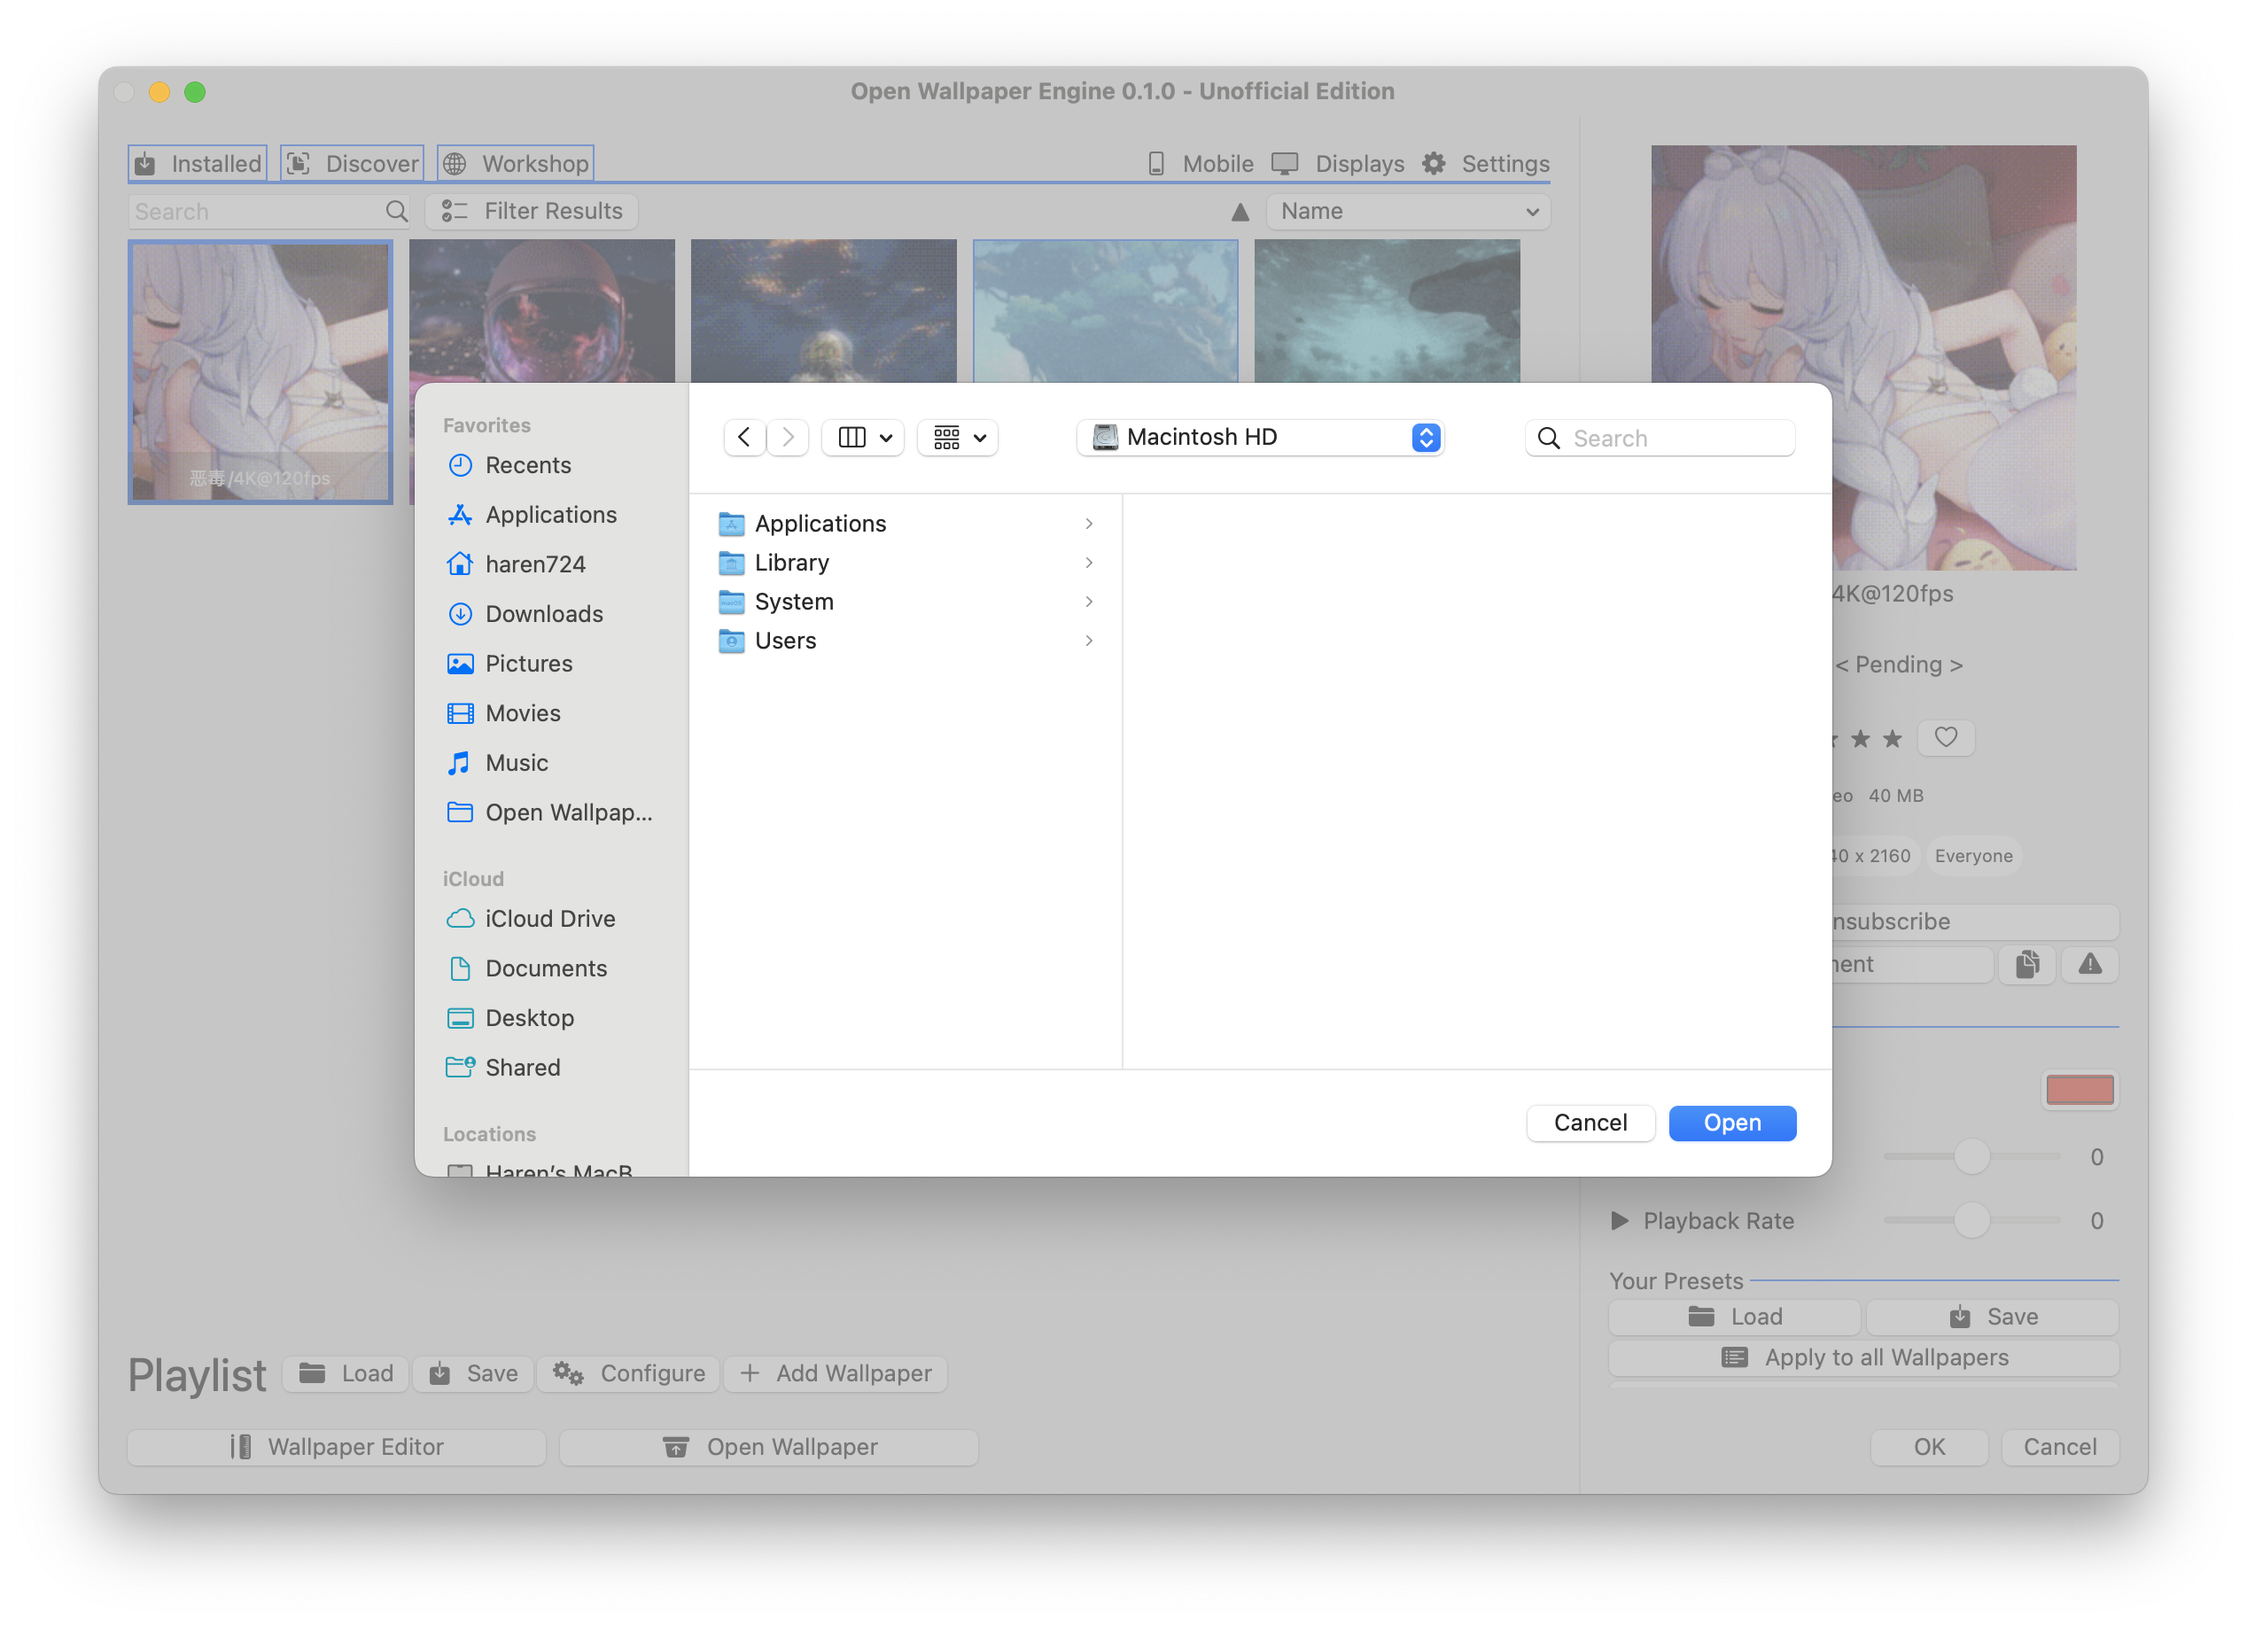
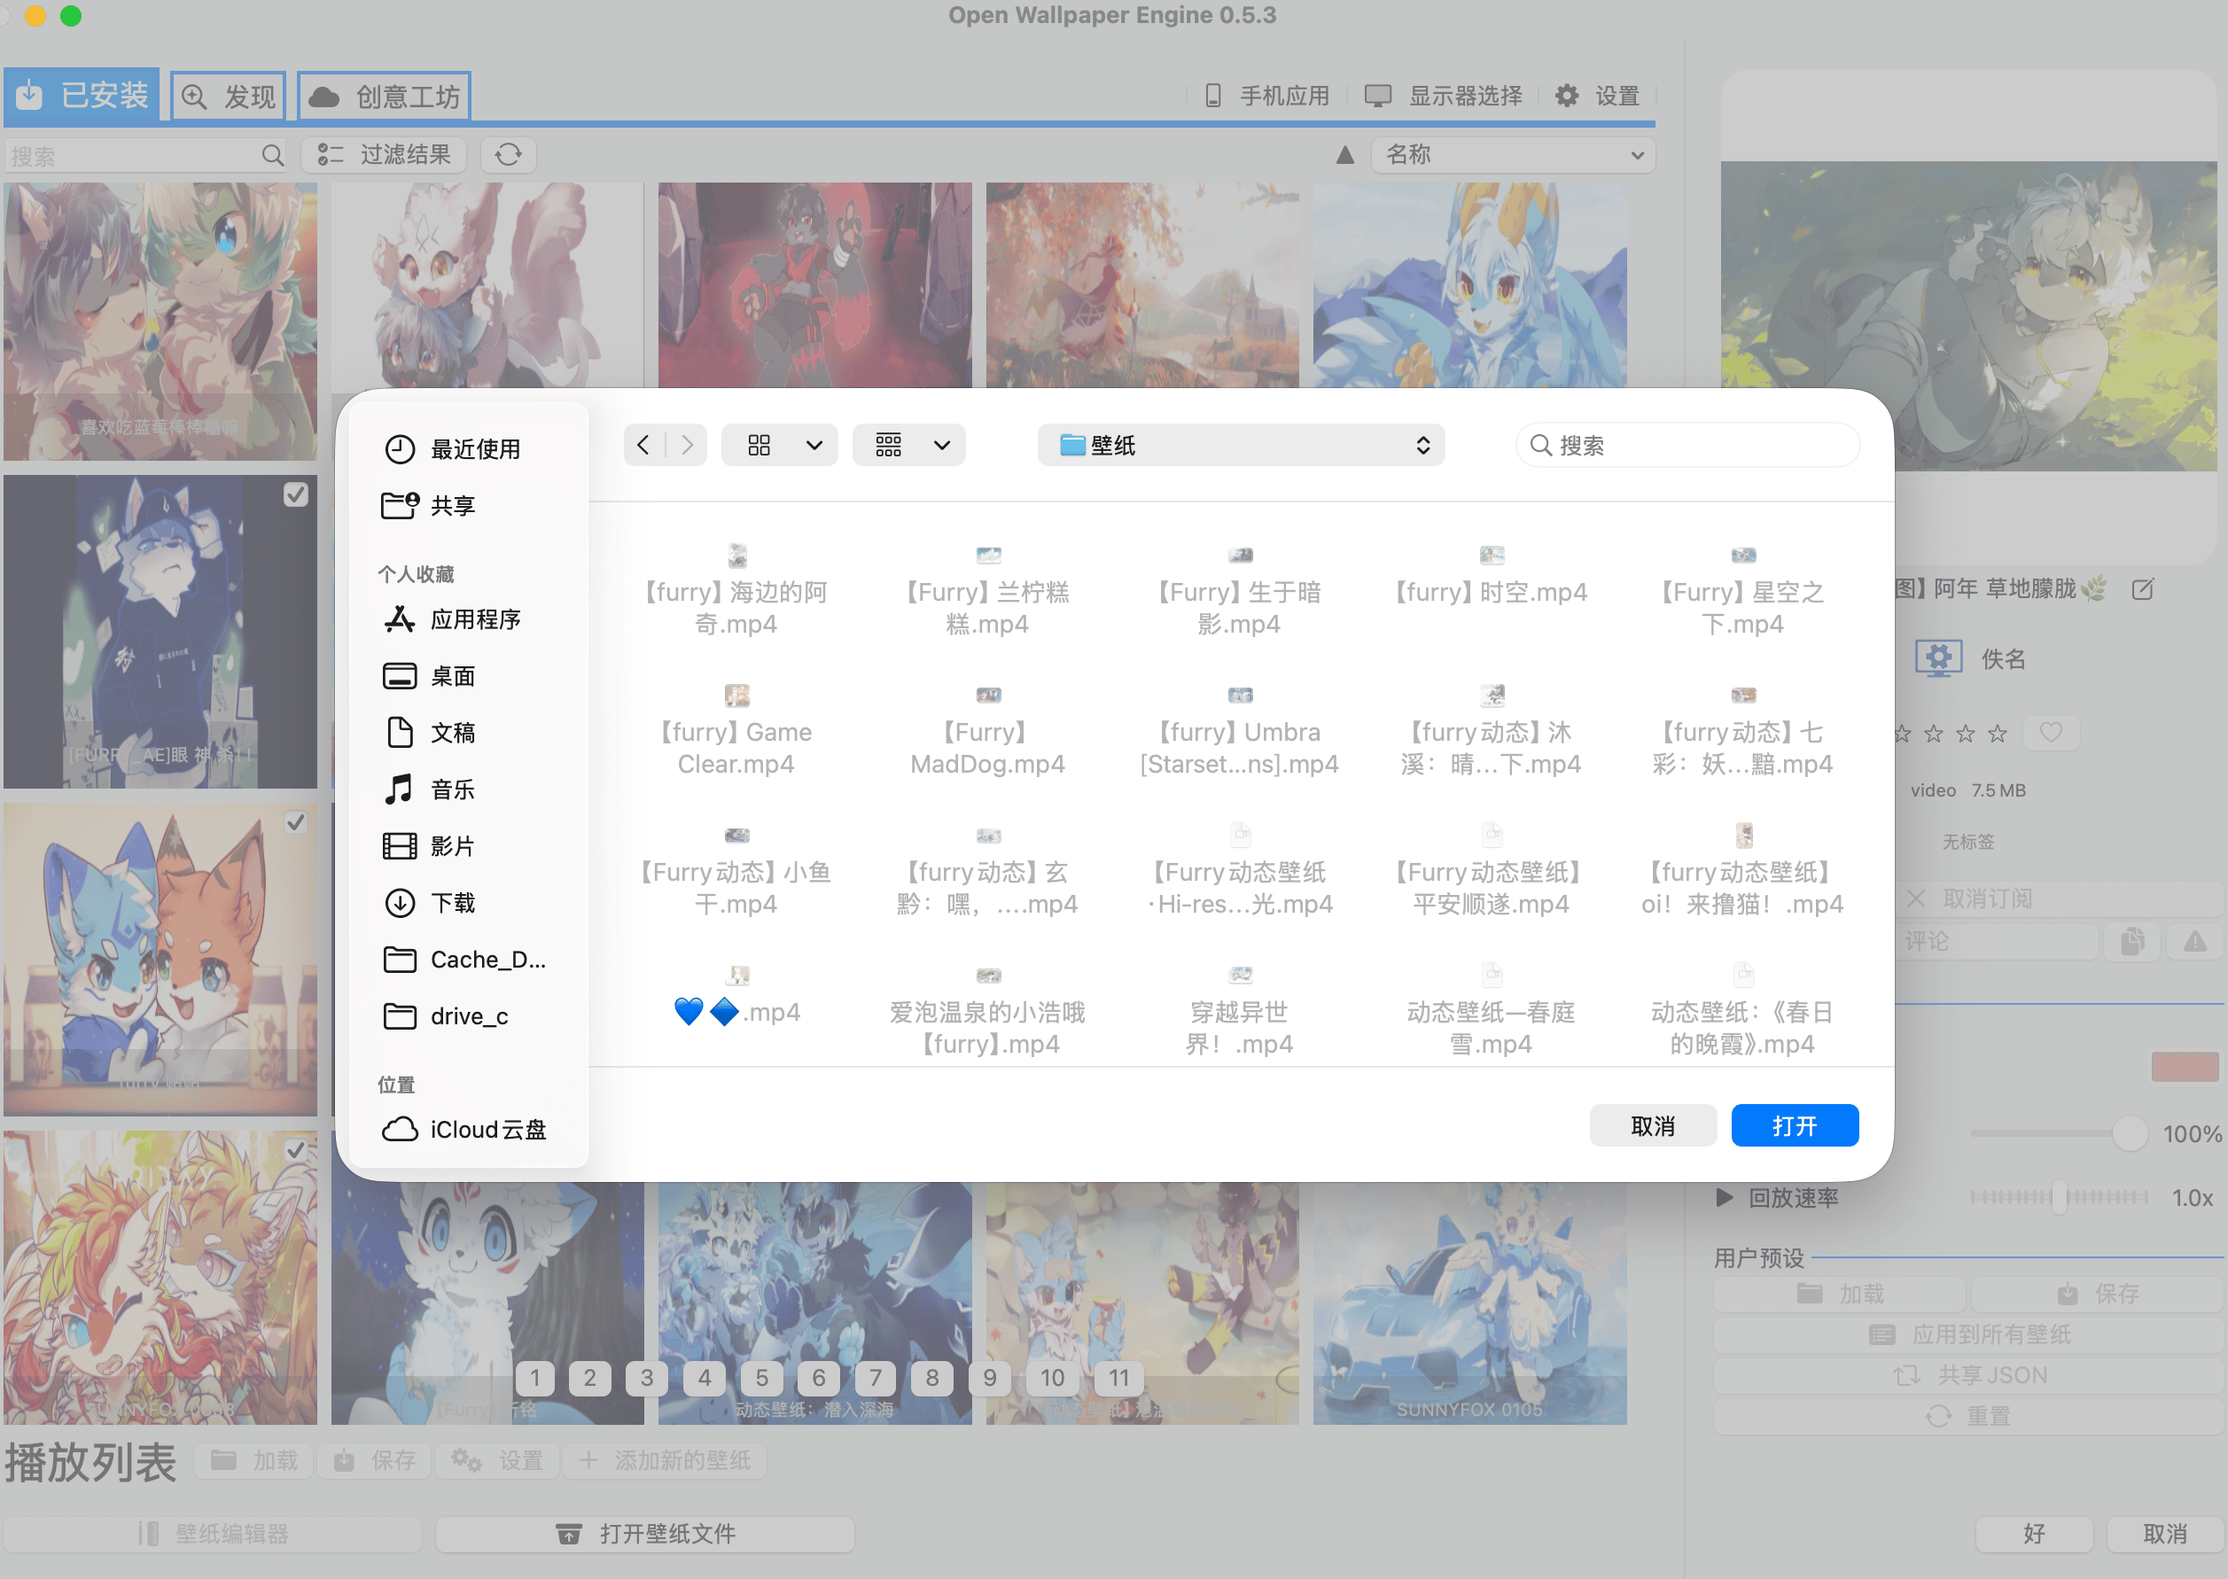
Add files via upload

diff --git a/README.md b/README.md
@@ -1,31 +1,13 @@
 Open Wallpaper Engine
 =========
 
-![GitHub release (latest by date)](https://img.shields.io/github/v/release/haren724/open-wallpaper-engine-mac)
+![GitHub release (latest by date)](https://img.shields.io/github/v/release/ERRORawa/open-wallpaper-engine-modified)
 
-An open source wallpaper engine for mac (which is not relative to the existing one on Steam)
+一个开源的mac版仿制Wallpaper Engine
 
-Menu
-=================
+=========
 
-<!--ts-->
-- [Open Wallpaper Engine](#open-wallpaper-engine)
-- [Menu](#menu)
-  - [Presentation](#presentation)
-    - [Wallpaper](#wallpaper)
-    - [UI](#ui)
-  - [Installation](#installation)
-  - [Usage](#usage)
-    - [Import from Wallpaper Engine (on Steam)](#import-from-wallpaper-engine-on-steam)
-      - [Notice](#notice)
-  - [Build](#build)
-    - [Prerequisite](#prerequisite)
-  - [Documentation](#documentation)
-<!--te-->
-
-## Presentation
-
-### Wallpaper
+### 壁纸
 
 ![](resources/wallpaper.png)
 
@@ -34,66 +16,35 @@ Menu
 ![](resources/wallpaper-with-windows.png)
 
 
-## Installation
-Download the .dmg file to local and drag the `.app` application file under `/Applications` folder
+## 安装方法
+下载`.zip`文件，解压后拖动`.app`到`/Applications`文件夹
 
-## Usage
-Hi there!
-I hosted a chat group on QQ: `228230228`  
-Guys If you are interested in contributing to this project, please 
-join this chat so that we could communicate much easier.
+## 用法
 
-大家好呀！ 
-我在QQ上建了个群：`228230228` 
-如果您有兴趣为这个项目做出贡献，不介意的话加一下呗，以便我们可以更方便地沟通。
+### 导入 Wallpaper Engine 文件
 
-### Import from Wallpaper Engine (on Steam)
-
-Check the File Menu
+点击文件菜单
 
 ![](resources/import-menu.png)
 
-Then select **Folder** of your wallpaper to be imported
+选择 Wallpaper Engine 中的壁纸文件，目前仅支持视频类型的壁纸
 
 ![](resources/import-panel.png)
 
-A normal wallpaper folder should like this (video wallpaper):
-- wallpaper_folder_name
-  - wallpaper_video_name.mp4
+正确的文件夹结构应该是这样的 (视频壁纸):
+- 壁纸文件夹
+  - 壁纸名.mp4
   - project.json
   - preview.gif
 
-#### Notice
-So far, only format from Wallpaper Engine is supported. That means you can't directly drag a `.mp4` file in and let it animate your desktop screen. We'll fix that soon.
+#### 导入本地 mp4 文件
 
+选择你的视频文件，可以同时选择多个文件导入
 
-## Build
-If you would like to make contribute to this project or for some other purposes, then you probably should at least build once. Here're the steps:
+将文件拖动到 Open Wallpaper Engine 主界面
 
-### Prerequisite
-- macOS >= 13.0
-- Xcode >= 14.4
-- Xcode Commandline Tools
+![](resources/drop-to-main.png)
 
------
-First, fork and clone your forked repo or just clone this repo directly if you don't plan to be a contributor. If you're in China, you'd better set up a HTTPS Proxy first to avoid failure due to bad connection or poor download speed.
-```sh
-git clone https://github.com/haren724/open-wallpaper-engine-mac
-```
+#### 注意
 
-And then open the directory in Xcode.
-```sh
-open open-wallpaper-engine-mac -a /Applications/Xcode.app
-```
-
-Change Signine Certificate to your own or select 'Sign to Run Locally'
-
-![](resources/change-signing-certificate.png)
-
-Then press `command ⌘ + R` to build and run
-
-
-## Documentation
-(newly update): a testing [DocC Documentation](http://haren724.top/documentation/open_wallpaper_engine) is currently on stage. Check it anytime if you need.
-
-(old): This project's documentation can be build with `docc`. I'll upload the documentation link automatically built by github action here later.
+请不要重复添加壁纸，这将会导致该壁纸被意外删除
